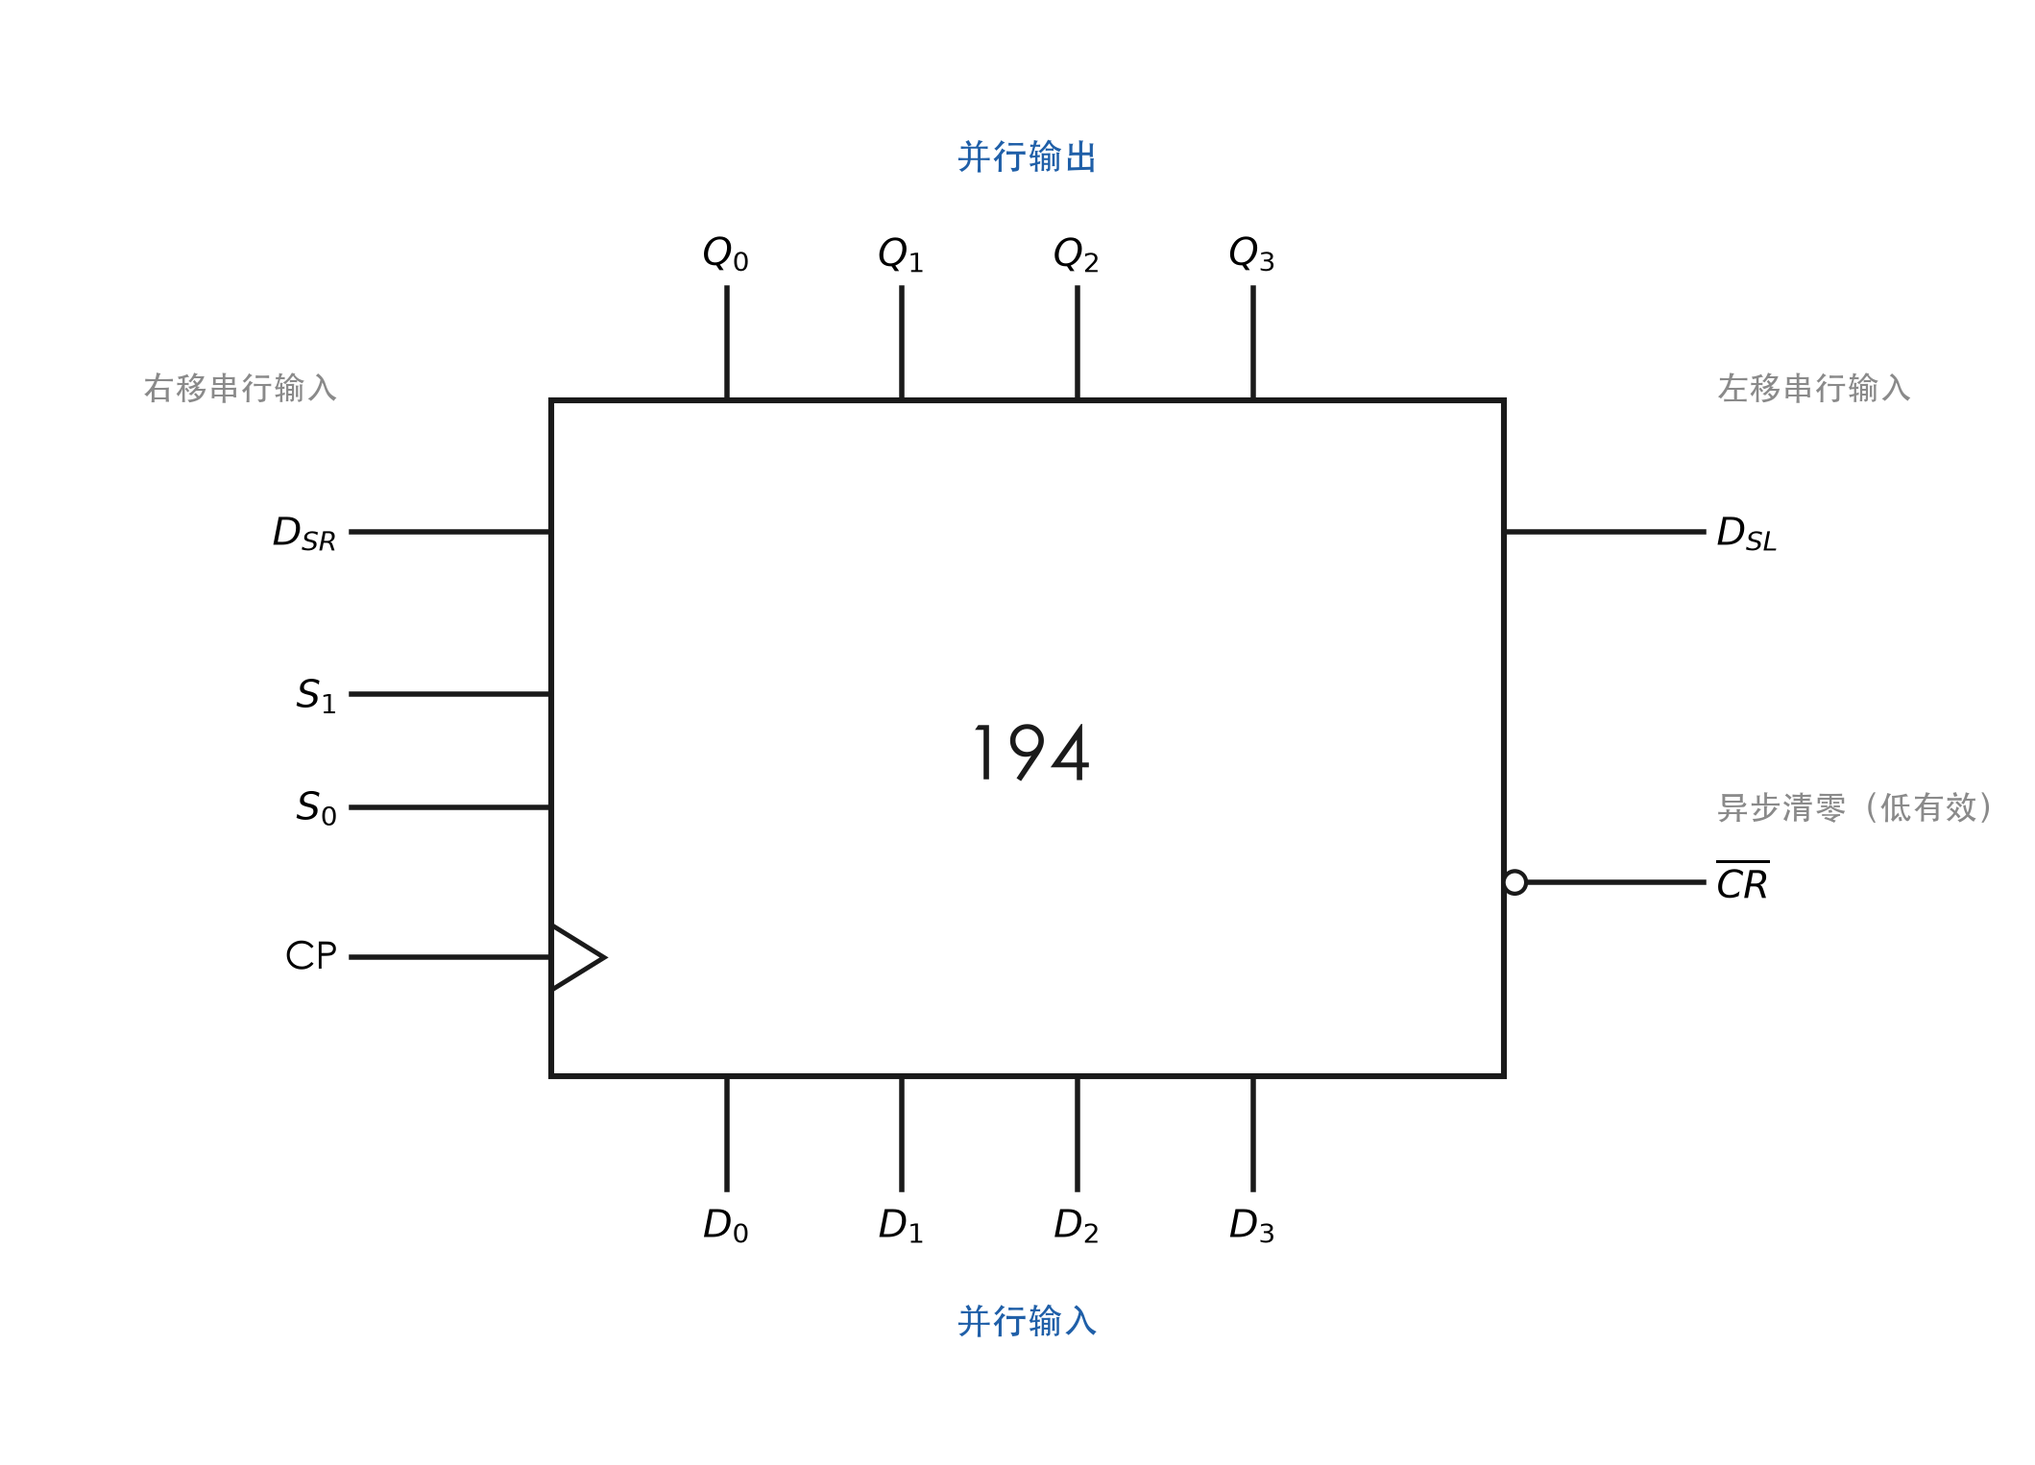
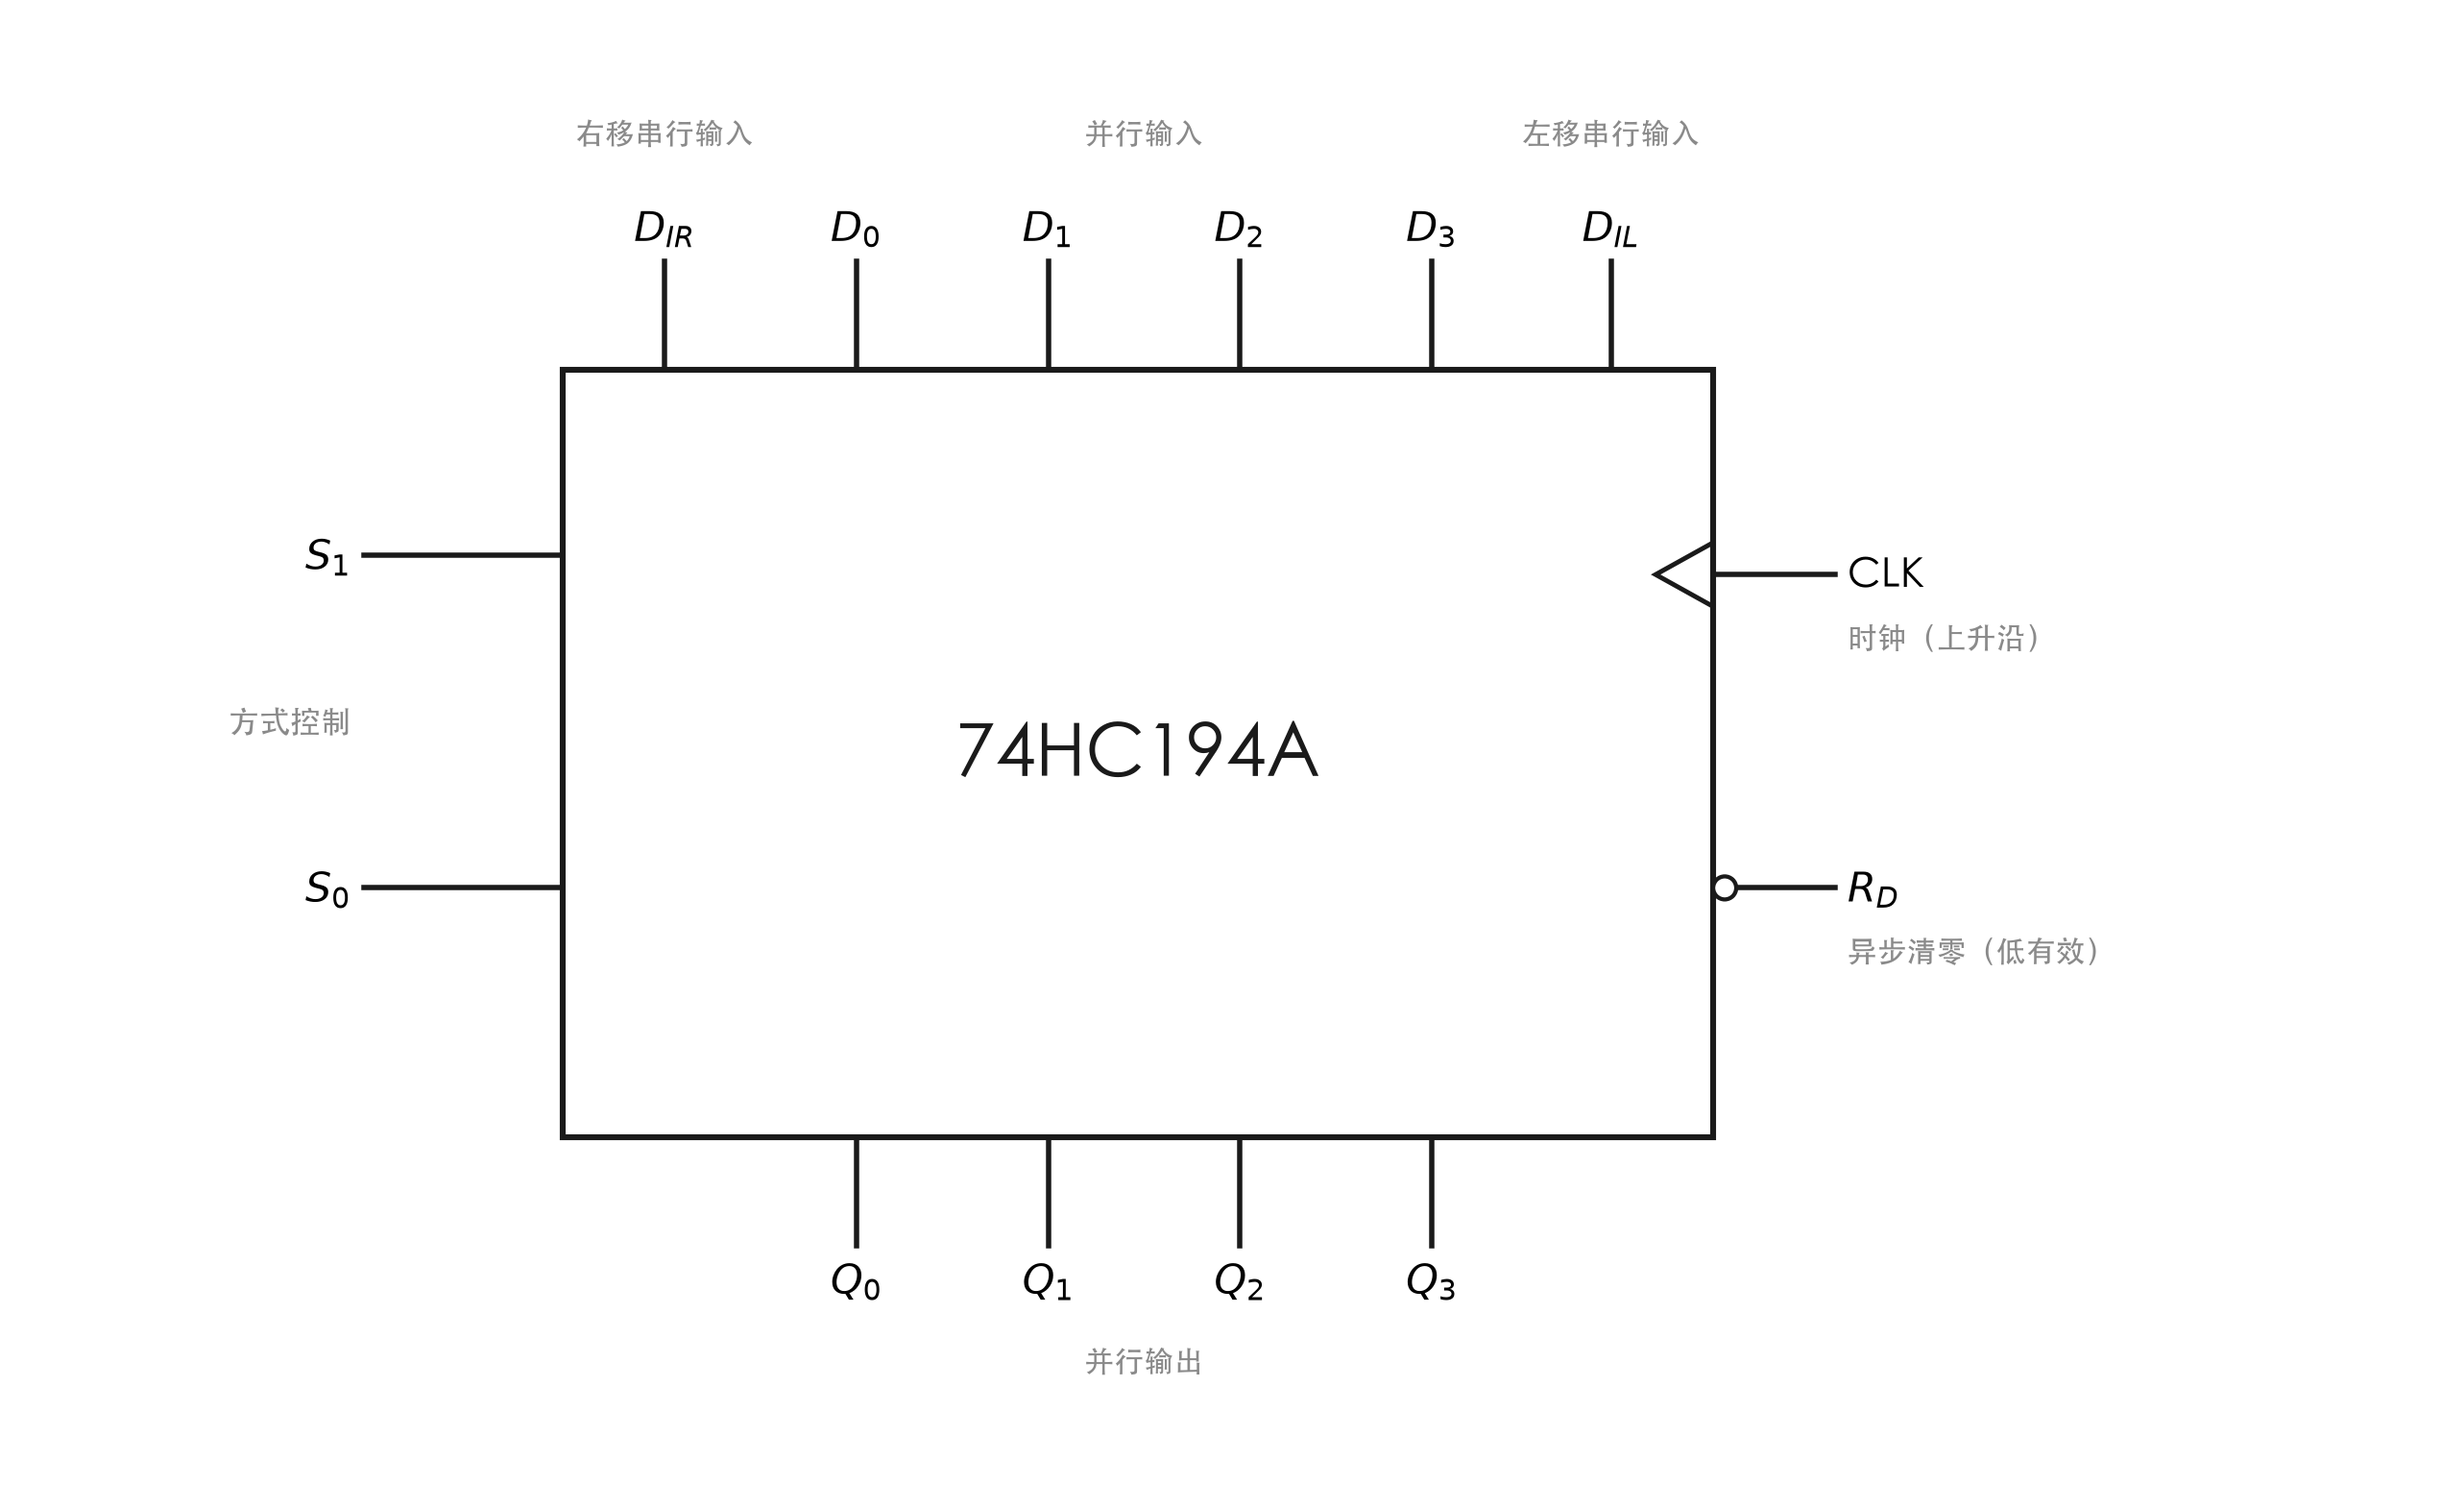
vault backup: 2026-11-02 18:48:09

diff --git a/考研专业课/数字电子技术/6-时序逻辑电路/05-寄存器和移位寄存器.md b/考研专业课/数字电子技术/6-时序逻辑电路/05-寄存器和移位寄存器.md
@@ -23,9 +23,9 @@ tags:
 | $Q_0\sim Q_3$ | 并行输出 | 四个触发器的现态，一次读出 |
 | $Q_i^*$ | 次态 | 下一个 CP 有效沿之后的状态，也写作 $Q_i^{n+1}$ |
 | CP | 移位脉冲 | 所有触发器共用的时钟，故属同步时序电路 |
-| $D_{SR}$ / $D_{SL}$ | 右移 / 左移串行输入 | 74HC194 的两个串行入口 |
+| $D_{IR}$ / $D_{IL}$ | 右移 / 左移串行输入 | 74HC194 的两个串行入口，分别进 $Q_0$ / $Q_3$ |
 | $S_1S_0$ | 方式控制 | 194 的保持 / 右移 / 左移 / 并行置数选择 |
-| $\overline{CR}$ | 异步清零 | 低电平有效，优先级最高 |
+| $R_D$ | 异步清零 | 带小圆圈表示低电平有效，优先级最高 |
 
 ---
 
@@ -164,25 +164,26 @@ $$
 ## 四、74HC194 多功能双向移位寄存器
 
 > [!note] 型号
-> 教材写作 74HC/HCT194，老教材写作 74LS194，**功能表完全一致**，只差工艺和电平。
+> 课件符号写作 **74HC194A**，教材常写 74HC/HCT194，老教材写 74LS194，**功能表完全一致**，只差工艺和电平。
 
 ![74HC194 逻辑符号](assets/05-寄存器和移位寄存器/图-74HC194-逻辑符号.png)
 
-> [!info] 引脚读法
-> - **上排 $Q_0\sim Q_3$**：并行输出；**下排 $D_0\sim D_3$**：并行输入
-> - **左 $D_{SR}$**：右移串行输入，数据从这里进 $Q_0$
-> - **右 $D_{SL}$**：左移串行输入，数据从这里进 $Q_3$
-> - **$S_1S_0$**：方式控制；**CP 三角**：上升沿触发
-> - **$\overline{CR}$ 带小圆圈**：低电平异步清零，优先级最高
+> [!info] 引脚读法（按课件符号）
+> - **上排六个输入**：最左 $D_{IR}$ 是右移串行输入，中间 $D_0\sim D_3$ 是并行输入，最右 $D_{IL}$ 是左移串行输入
+> - **下排 $Q_0\sim Q_3$**：并行输出
+> - **左 $S_1$、$S_0$**：方式控制，两位拼起来选功能
+> - **右 CLK 带边沿三角**：上升沿触发；**$R_D$ 带小圆圈**：低电平异步清零，优先级最高
+>
+> 记忆：**串行入口贴在两端（$D_{IR}$ 在左、$D_{IL}$ 在右），并行输入居中，输出在下**——刚好对应「两端串、中间并」。
 
 ### 1. 功能表
 
-| $\overline{CR}$ | $S_1$ | $S_0$ | CP | 功能 | 次态 |
+| $R_D$ | $S_1$ | $S_0$ | CLK | 功能 | 次态 |
 |:---:|:---:|:---:|:---:|------|------|
 | 0 | × | × | × | 异步清零 | 全部为 0 |
 | 1 | 0 | 0 | × | 保持 | $Q_i^*=Q_i$ |
-| 1 | 0 | 1 | ↑ | 右移 | $D_{SR}\to Q_0$，$Q_0\to Q_1\to Q_2\to Q_3$ |
-| 1 | 1 | 0 | ↑ | 左移 | $D_{SL}\to Q_3$，$Q_3\to Q_2\to Q_1\to Q_0$ |
+| 1 | 0 | 1 | ↑ | 右移 | $D_{IR}\to Q_0$，$Q_0\to Q_1\to Q_2\to Q_3$ |
+| 1 | 1 | 0 | ↑ | 左移 | $D_{IL}\to Q_3$，$Q_3\to Q_2\to Q_1\to Q_0$ |
 | 1 | 1 | 1 | ↑ | 并行置数 | $Q_i^*=D_i$ |
 
 > [!warning] 方向陷阱
@@ -192,8 +193,8 @@ $$
 
 | 接法 | 反馈线 | 预置初值 | 状态数（即模值） |
 |------|------|------|:---:|
-| 环形计数器 | $D_{SR}\leftarrow Q_3$ | 0001 | $n$ |
-| 扭环形计数器 | $D_{SR}\leftarrow \overline{Q_3}$ | 0000 | $2n$ |
+| 环形计数器 | $D_{IR}\leftarrow Q_3$ | 0001 | $n$ |
+| 扭环形计数器 | $D_{IR}\leftarrow \overline{Q_3}$ | 0000 | $2n$ |
 
 - 4 位环形：0001 → 0010 → 0100 → 1000 → 0001，**不用译码**就能直接得到 4 个节拍信号。
 - 4 位扭环形：0000 → 0001 → 0011 → 0111 → 1111 → 1110 → 1100 → 1000 → 0000，共 8 个状态。
@@ -237,7 +238,8 @@ $$
 | 以为一个 CP 就能读出串行数据 | $N$ 位要 $N$ 个 CP 才装填完 |
 | 串行输出取错端 | 取链尾 $Q_3$，不是 $Q_0$ |
 | 左右移凭直觉 | 教材规定 $Q_0\to Q_3$ 为右移，与编程习惯相反 |
-| 忽略 $\overline{CR}$ | 异步清零优先级最高，$S_1S_0$ 和 CP 都压不住 |
+| 串行入口认错端 | $D_{IR}$ 在符号最左、进 $Q_0$；$D_{IL}$ 在最右、进 $Q_3$ |
+| 忽略 $R_D$ | 低电平异步清零优先级最高，$S_1S_0$ 和 CLK 都压不住 |
 
 ---
 
